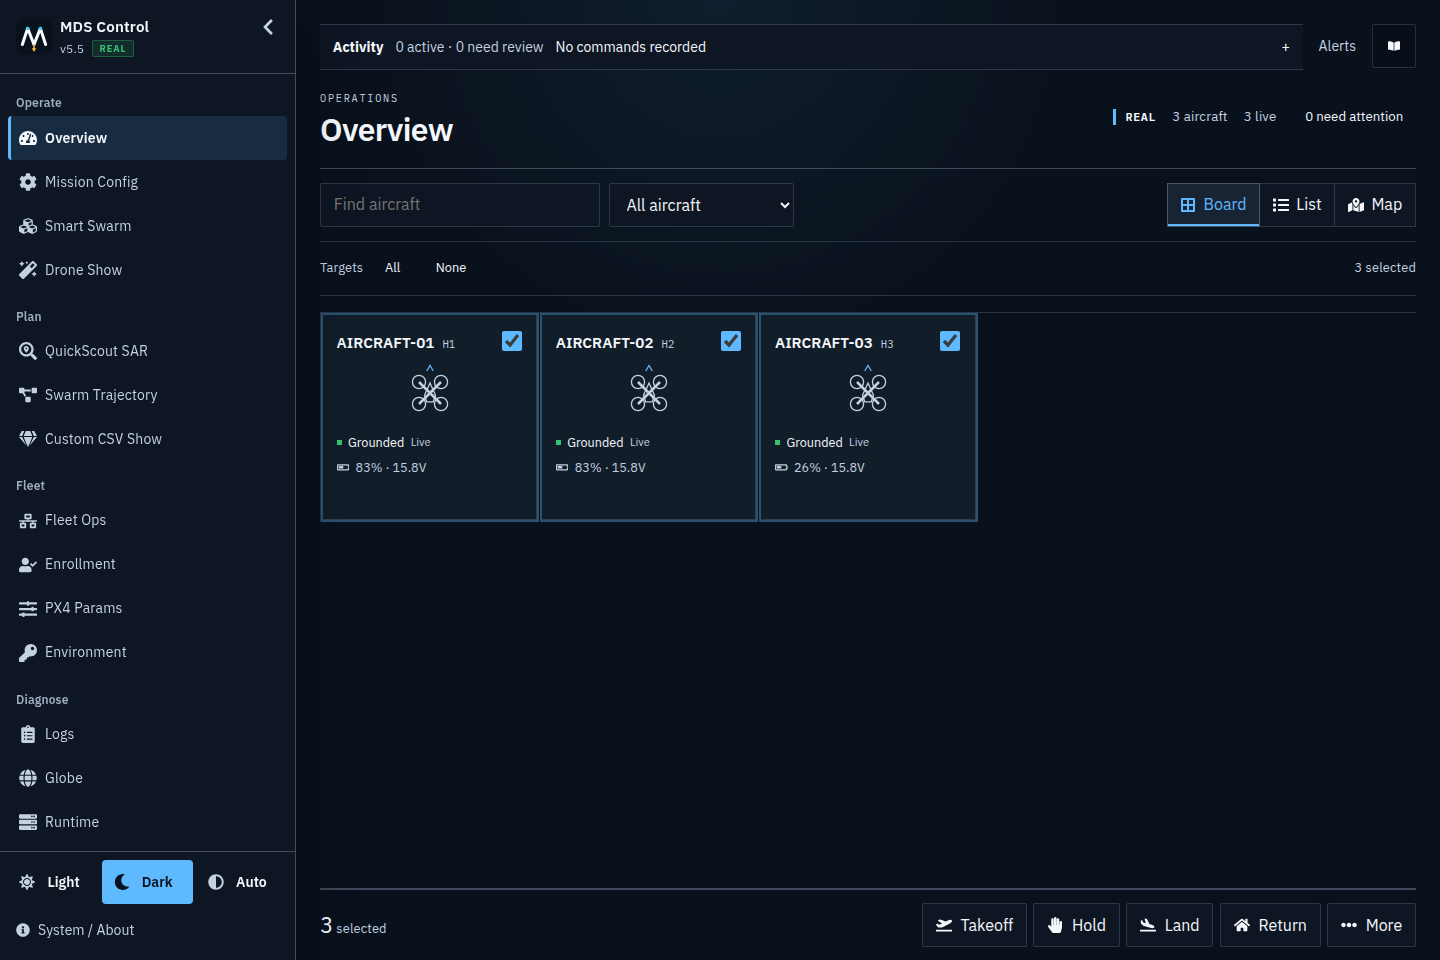
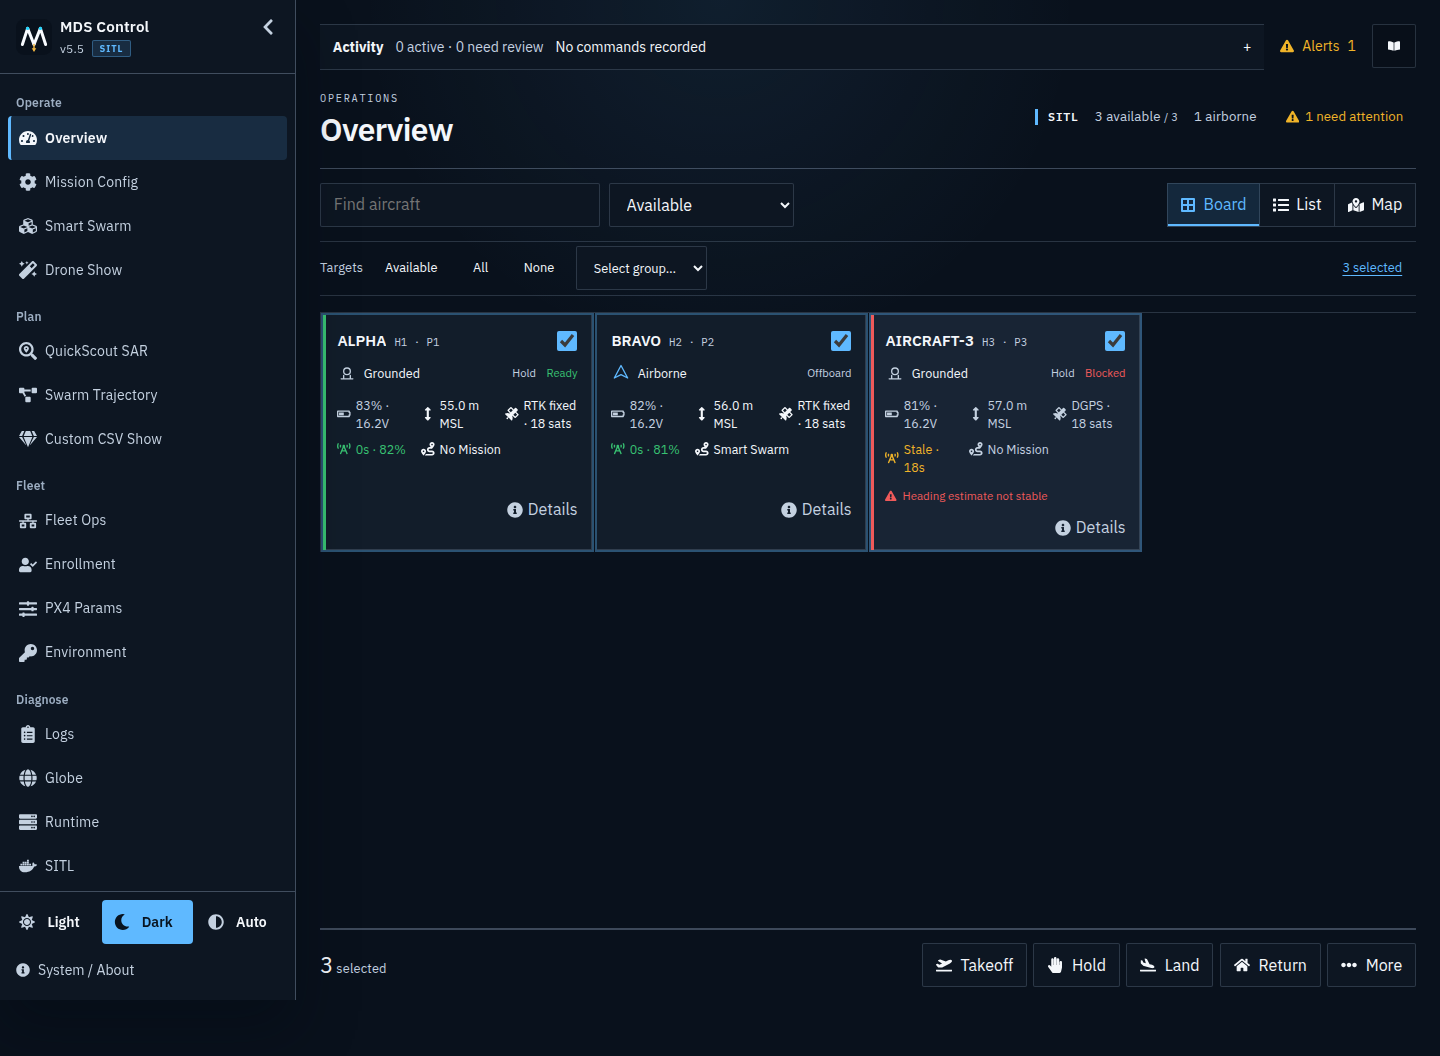
Refresh Overview operator screenshots and validation record

diff --git a/docs/plans/2026-11-11-overview-refinement-validation.md b/docs/plans/2026-11-11-overview-refinement-validation.md
@@ -1,0 +1,68 @@
+# Overview refinement · validation record
+
+## Changed
+
+- Available is the default heartbeat-based view and the first-use target set.
+  The GCS publishes a 10-second stale cue and canonical 60-second retention
+  window, both configurable. This does not change flight/command admission.
+- Saved target sets, including empty ones, retain their exact identities.
+  Filtering, inspection, group display and reconnects never retarget a command.
+  The selected count opens the complete selected set, including hidden aircraft.
+- Compact state glyphs replace decorative airframe silhouettes. Cards include
+  callsign, hardware/slot IDs, named flight mode, measured GNSS/satellites,
+  battery, altitude/datum, mission, heartbeat age and fresh reported Wi-Fi percent.
+  Unknown data stays unknown; heartbeat presence is not proof of current FC data.
+- Never-observed roster entries no longer create loss-of-link alarms. Losing
+  an observed aircraft still does, independently of the current display filter.
+- Optional cluster grouping appears for multiple multi-aircraft formations.
+  Display grouping and explicit group target selection remain separate controls.
+- Bulk and single-aircraft More use the same flat, responsive native side panel.
+  Targets are frozen when opened. Move stays in its dedicated current-airborne
+  flow; primary controls are not duplicated in More.
+- New general-command reviews explicitly acknowledge unavailable targets or
+  create a reduced-target review. They do not promise deferred delivery/retries.
+  Uncertain receipts remain immutable, lookup-only, and cannot be retargeted.
+  REAL motor tests retain independent physical acknowledgments.
+
+## Evidence
+
+All tests, production builds and browser checks ran on the designated remote
+validation host, not the editing workstation.
+
+- Full frontend regression: **163 suites / 1,225 tests passed**.
+- Final changed-model/card/review/Overview regression: **77 tests passed** after
+  the last compact-label and never-observed-roster changes.
+- Display-policy, canonical presence, core routes and environment registry:
+  **54 tests passed**. The generated environment reference is refreshed.
+- Documentation index and OpenAPI candidate generators: **15 tests passed**.
+  Refreshed indexes do not enable new Simurgh/MCP tools or change their policy.
+- Optimized production builds completed. No new dependency was required.
+- [Final browser matrix](../assets/operator-overview/evidence/refinement-20261111.json):
+  **14 scenarios passed**, using dark/light themes at 390, 768, 820, 1024 and
+  1440 pixels, plus one- and 100-aircraft desktop cases. The 100-aircraft cases
+  check Board/List and optional cluster grouping without altering selection.
+- Desktop/phone interactions verify named modes, stale/offline transitions,
+  hidden selected targets, exact-aircraft More, replacement rather than stacked
+  dialogs, unavailable acknowledgment and reduced-target review. No browser
+  errors, horizontal page/panel overflow or command writes occurred.
+- After deployment, two further desktop/phone scenarios passed against the
+  actually served bundle with synthetic API fixtures. A separate authenticated
+  read-only API smoke confirmed REAL mode, no restart pending and the published
+  display policy. Its short-lived credential was revoked and rejection verified.
+
+The [updated illustrated guide](../assets/operator-overview/overview-operator-guide.png)
+uses original-resolution synthetic aircraft screenshots. Send it as a file to
+avoid messaging-app photo compression.
+
+## Boundaries
+
+This is a GCS presentation/command-review refinement, not a new aircraft
+controller or flight release. No PX4 parameter, swarm gain, formation, network
+profile or aircraft command changed. No hardware or flight clearance is claimed.
+The existing immutable SITL-image rebuild remains a separate deferred item;
+these checks do not claim to update that distribution artifact.
+
+Chromium responsive emulation does not replace physical Safari/touch-device or
+field-operator acceptance. Dense map-marker decluttering and broader mission
+page polish remain separate follow-ups. The independently preserved flight
+incident evidence/identity investigation is not resolved by these UI changes.

diff --git a/docs/guides/dashboard-operator.md b/docs/guides/dashboard-operator.md
@@ -76,6 +76,8 @@ These address that aircraft only, independently of the dashboard selection.
 panel is scoped to that exact hardware ID, not the bulk selection. Opening a
 panel freezes its target set; subsequent filtering or reconnects cannot retarget it.
 
+![More actions uses the same scoped side-panel layout](../assets/operator-overview/more-actions-dark.png)
+
 If a new general action includes unavailable aircraft, the review names them.
 **Remove unavailable** creates a reduced-target review without changing the main
 selection. Alternatively, **Attempt unavailable aircraft** acknowledges one
@@ -83,6 +85,8 @@ bounded dispatch attempt to the exact targets. This is not deferred delivery or
 automatic replay after reconnection. PX4/native checks still apply. Takeoff keeps
 its own live readiness and coordinated-launch checks; this acknowledgment cannot
 bypass them. An unconfirmed command can only be looked up, not edited or resent.
+
+![Unavailable aircraft are named in the action review](../assets/operator-overview/unavailable-target-review-dark.png)
 
 The motor-arm test is a physical test, not just a connectivity check. On real
 aircraft, confirmation requires propellers removed, airframes secured and the
